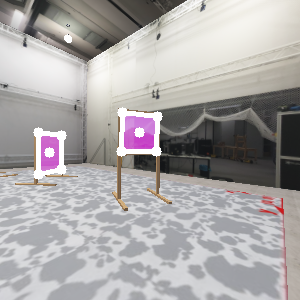
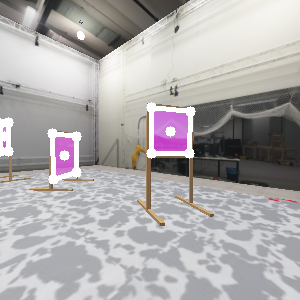
cleaned FSM to later debug

diff --git a/controllers/main/assignment/my_assignment.py b/controllers/main/assignment/my_assignment.py
@@ -17,6 +17,8 @@ gate_count = 0
 #Personnal thoughts : would like to add : 
 # side functions to strenghen the code : 
 # - a function so that if fence is too fare <=> fence area too small : first move forwards. 
+#like a correction fction : for example if to far or to much rotated (height not small but area small): then move forwards and redo the triangulation
+# - the move to the right function to be proportionate to the distance of the fence's center to the center of the taken pictur
 
 
 def get_command(sensor_data, camera_data, dt):
@@ -40,81 +42,62 @@ def get_command(sensor_data, camera_data, dt):
         if status == "reached_target":
             #save the origin position
             gate_coordinates.append([sensor_data['x_global'], sensor_data['y_global'], sensor_data['z_global'], sensor_data['yaw']])
-            state = "step2_triangulation1"
+            state = "step2.1"
             last_position = current_position
             last_center = shapes[0].center #saves the last picture's data for the triangulation
             print("Take off complete")
             
     
-    # Loop for each of the 5 fences : 
-
-    # STEP 2 : Move to the first fence
-    if state == "step2_triangulation1":
-
-        distance = 1
+    # STEP 2 : Detect and move to each fence
+    if state == "step2.1": #move to the right and rotate to capture 2nd picture for triangulation
+        distance = 0.4
         dir = "right"
         additional_rotation_angle = np.pi/4
-        #save png file of the image
-        name1 = f"image_gate{gate_count}_1.png"
+
+        name1 = f"image_gate{gate_count}_pic1.png" #save png file of the image for debugging purposes :
         cv2.imwrite(name1, image)
 
-        control_command, status = move_to_abs_position(current_position, abs_target_position_calculator(dir, distance, last_position,additional_rotation_angle))
-        # offset = [-0.4, 0, 0, np.pi/4] #move to the right position of the fence
-        # control_command, status = move_to_abs_position(current_position,np.add(last_position, offset))        
+        control_command, status = move_to_abs_position(current_position, 
+                                                       abs_target_position_calculator(dir, distance, last_position,additional_rotation_angle))  
         if status == "reached_target":
-            #state = "step2_triangulation2"
-            state = "step2_triangulation2"
-            #save png file of the image with number of gate : 
-            
-            name2 = f"image_gate{gate_count}_2.png"
-            
+            state = "step2.2"
+
+            name2 = f"image_gate{gate_count}_pic2.png" #save png file of the image with number of gate :
             cv2.imwrite(name2, image)
 
-    if state == "step2_triangulation2":
-        if wait_start_time is None:        #wait few seconds to let the drone stabilize
+    if state == "step2.2": #wait for stabilization, capture second picture and triangulate
+        if wait_start_time is None: #wait few seconds to let the drone stabilize
                 wait_start_time = time.time()  # Start waiting
-                print("Reached first fence. Waiting to stabilize...")
 
         elif time.time() - wait_start_time >= 1.0:  # wait 2 seconds
-            state = "round1"
+            state = "step2.3"
             wait_start_time = None 
             current_center = shapes[0].center if shapes else None
-            if current_center is not None:
-                print("Current center:", current_center)
-                
+            if current_center is not None:                
                 # Triangulation
                 triangulated_point = triangulate_from_pixels(last_center, current_center, image, last_position, current_position)
                 gate_coordinates.append([triangulated_point[0], triangulated_point[1], triangulated_point[2], sensor_data['yaw']])
-                print("Triangulated 3D point:", triangulated_point)
-                state = "round1"
+                print("Triangulated 3D gate #", gate_count, ":", triangulated_point)
+                state = "step2.3"
     
-    if state == "round1":
+    if state == "step2.3":
         
         control_command, status = move_to_abs_position(current_position,[gate_coordinates[gate_count+1][0],gate_coordinates[gate_count+1][1],gate_coordinates[gate_count+1][2], gate_coordinates[gate_count+1][3]] )
         if status == "reached_target":
             print("reached gate number", gate_count+1)
-            state = "triangulation 2"
+            state = "step2.4"
             last_position = current_position
             gate_count += 1
         
-    if state == "triangulation 2":
+    if state == "step2.4":
         distance = 0.5
         dir = "forwards"
         additional_rotation_angle = np.pi/4
         control_command, status = move_to_abs_position(current_position, abs_target_position_calculator(dir, distance, last_position,additional_rotation_angle))
         if status == "reached_target":
-            state = "step2_triangulation1"
+            state = "step2.1"
             last_position = current_position
             last_center = shapes[0].center #saves the last picture's data for the triangulation
-            
-    # if state == "triangulation 2":
-    #     offset = [0, 0, 0, np.pi/2] #move to the right position of the fence
-    #     control_command, status = move_to_position(current_position,np.add(last_position, offset))
-    #     if status == "reached_target":
-    #         state = "round2"
-    #         print("Reached second fence. Waiting to stabilize...")
-    
-
 
     cv2.imshow("Crazyflie FPV Camera", image)
     cv2.waitKey(1) 
